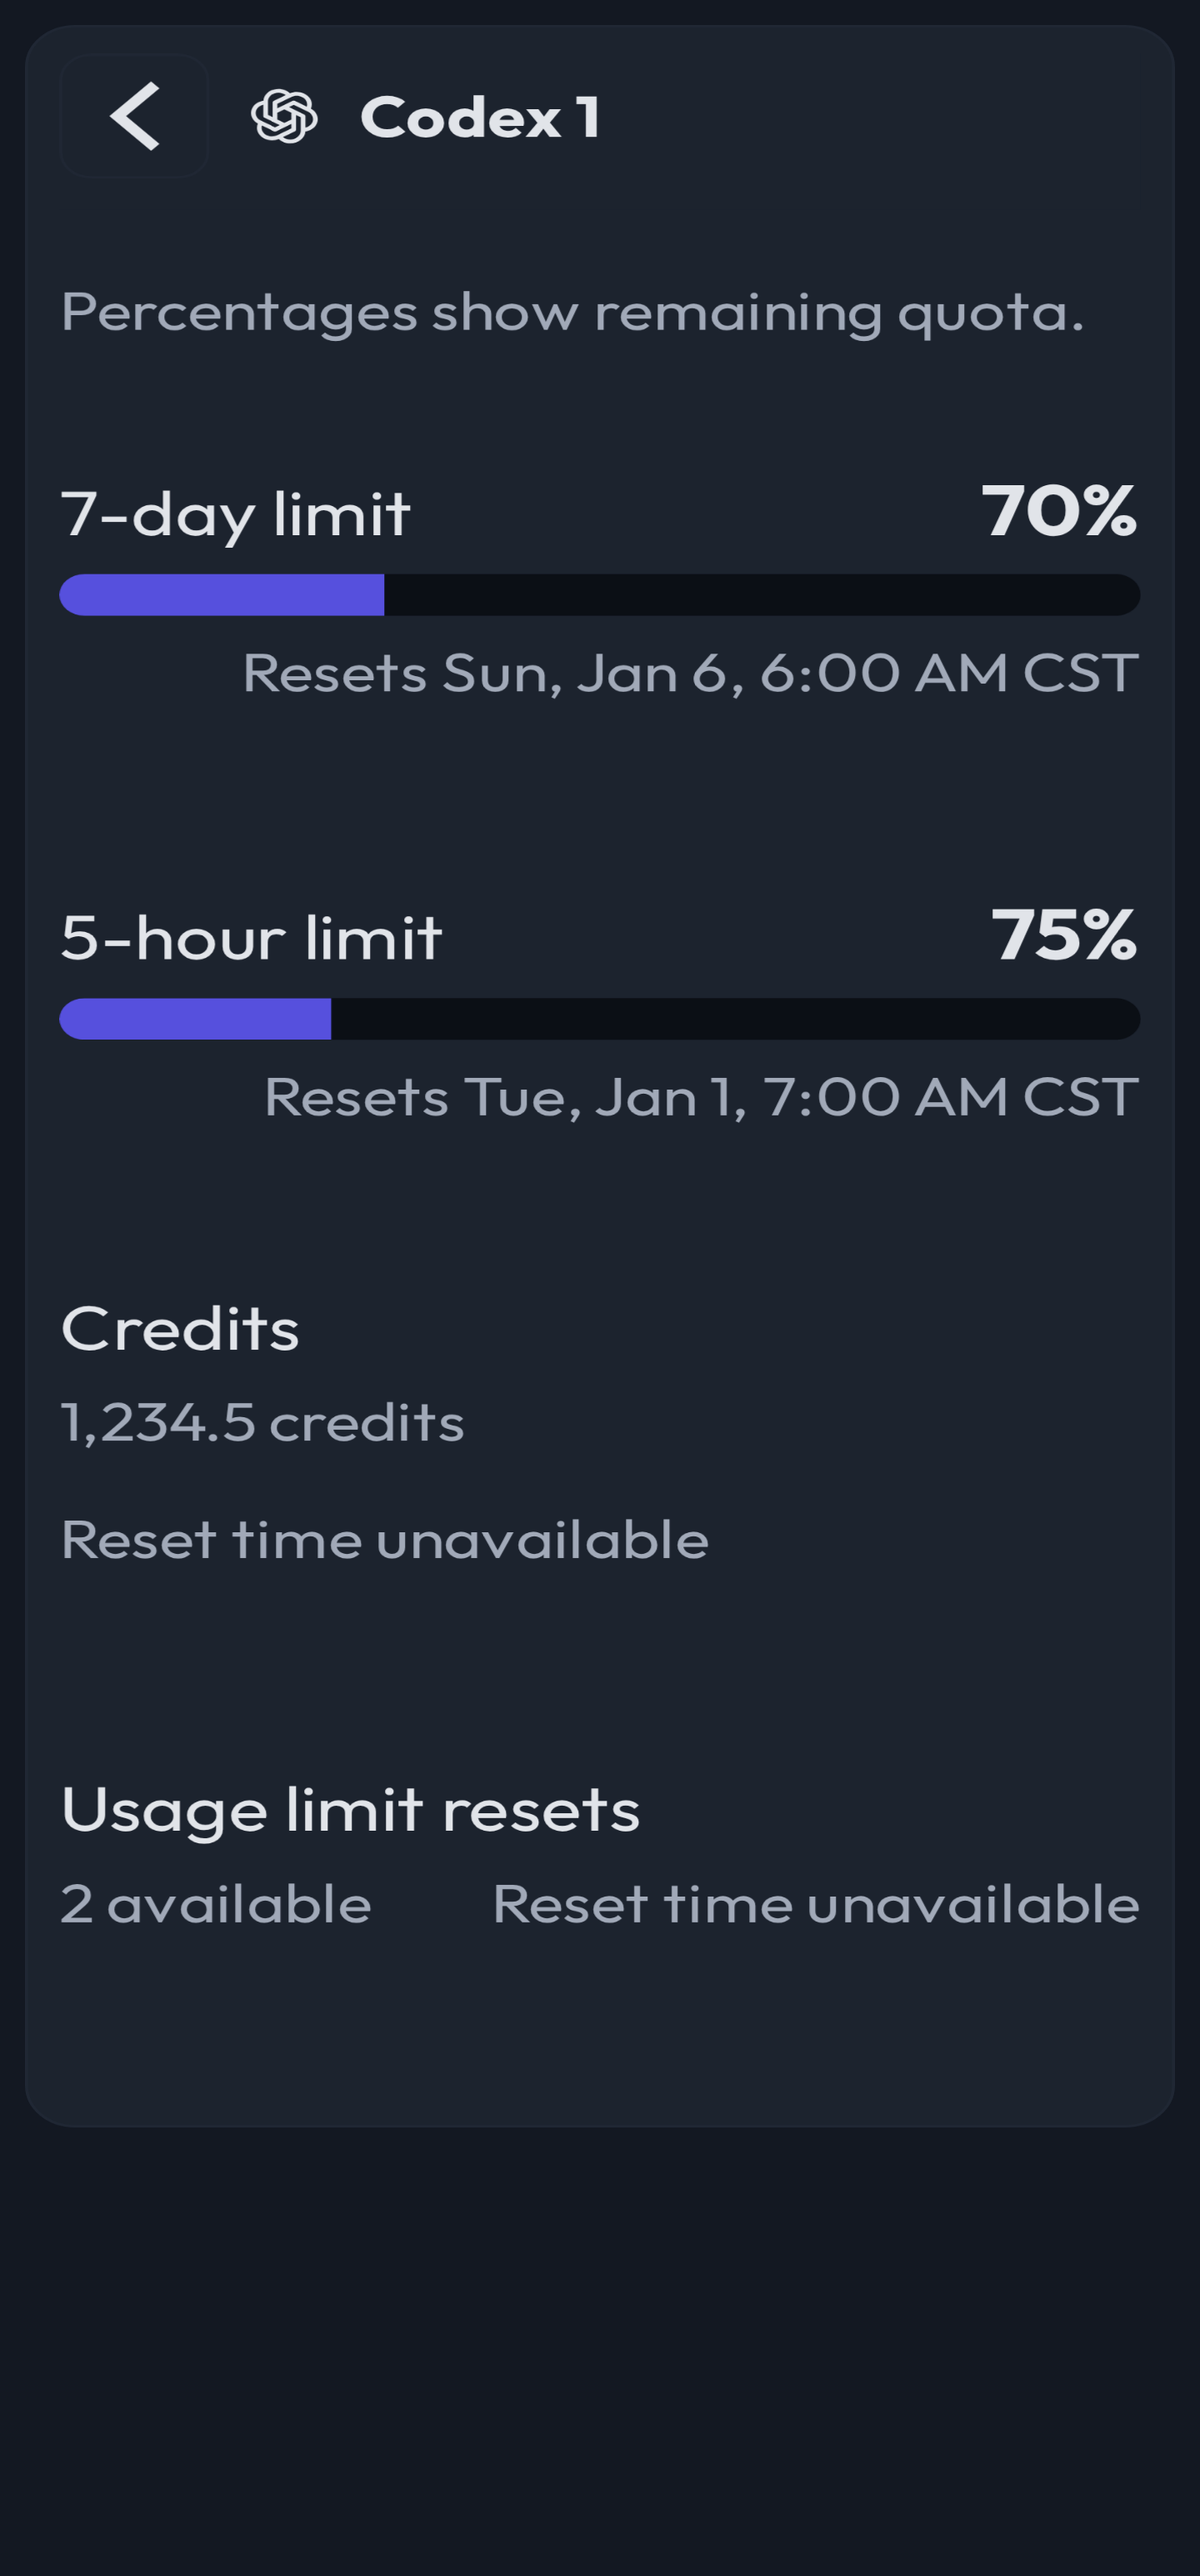
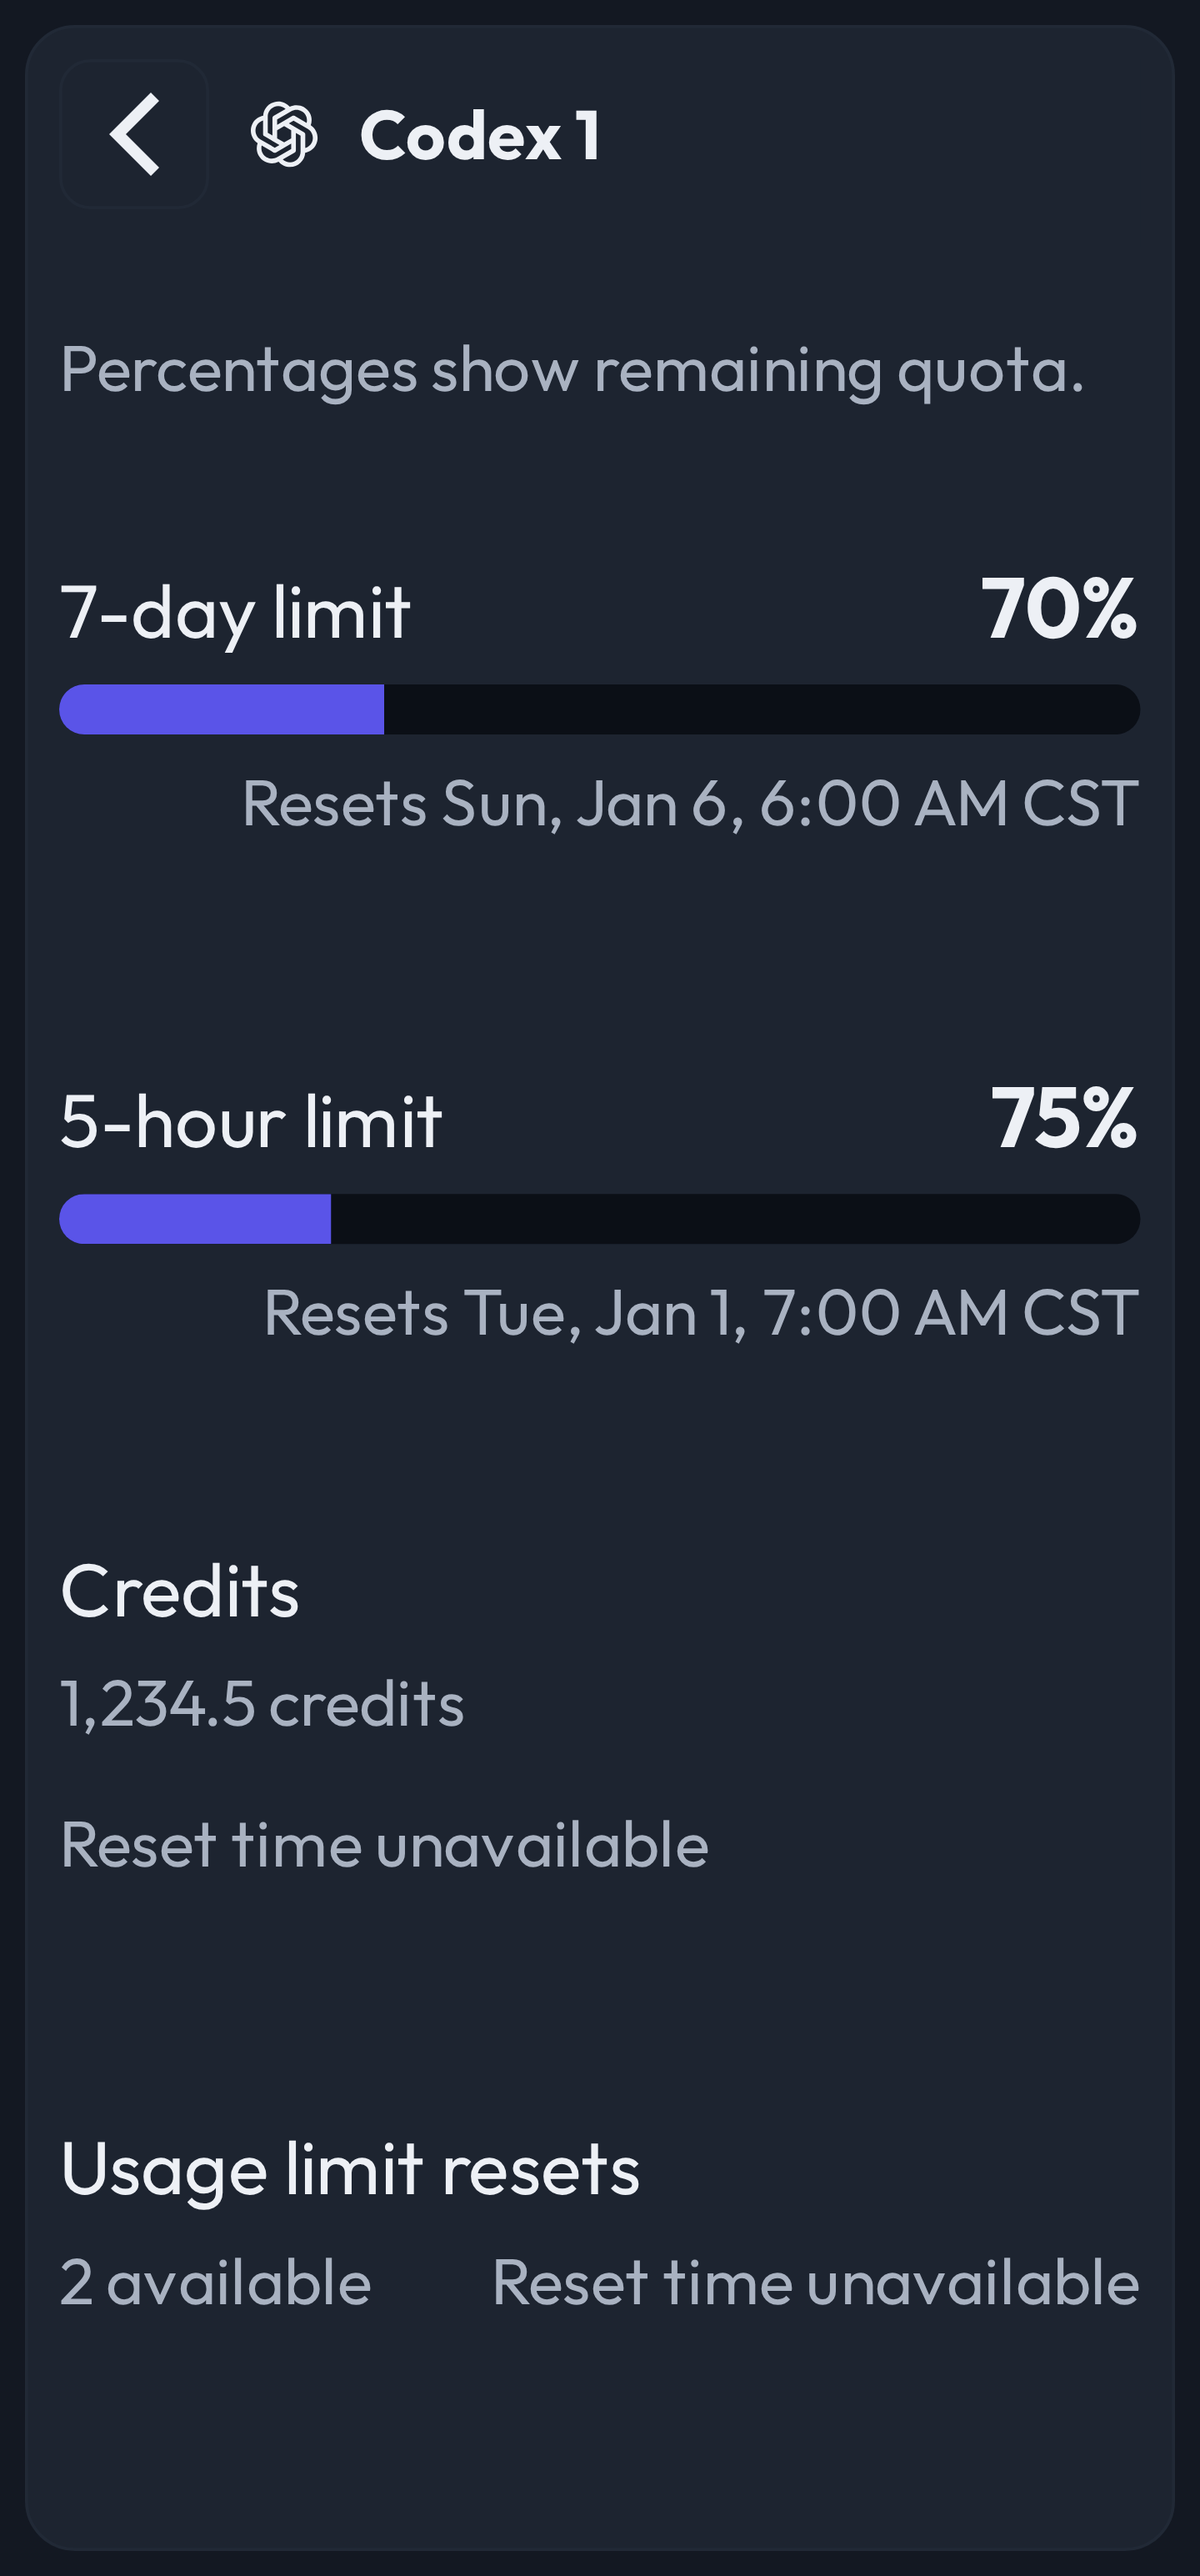
test: capture settled subscription navigation layouts

diff --git a/e2e/aiUsage.spec.ts b/e2e/aiUsage.spec.ts
@@ -82,6 +82,7 @@ test("AI usage details show all limits and resets without changing the overview"
   await expect(trigger).toBeVisible()
   await expect(page.getByText("Weekly Fable")).toBeHidden()
   await page.screenshot({
+    animations: "disabled",
     path: `__screenshots__/usage-overview-${testInfo.project.name}.png`,
   })
   await trigger.click()
@@ -152,6 +153,7 @@ test("AI usage details show all limits and resets without changing the overview"
   ).toBeLessThan(1)
 
   await page.screenshot({
+    animations: "disabled",
     path: `__screenshots__/usage-details-${testInfo.project.name}.png`,
   })
   await details
@@ -183,6 +185,7 @@ test("AI usage details show all limits and resets without changing the overview"
   ).toHaveCount(2)
   await expect(codex.getByText(/^Resets /)).toHaveCount(2)
   await page.screenshot({
+    animations: "disabled",
     path: `__screenshots__/usage-codex-${testInfo.project.name}.png`,
   })
   await request.post("/__test__/mqtt", {
